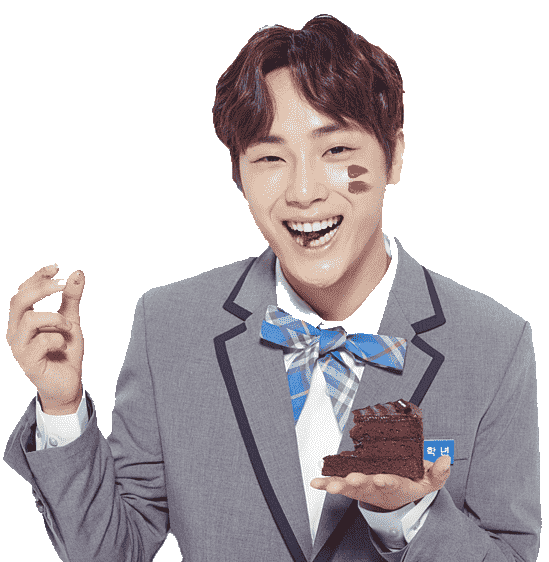
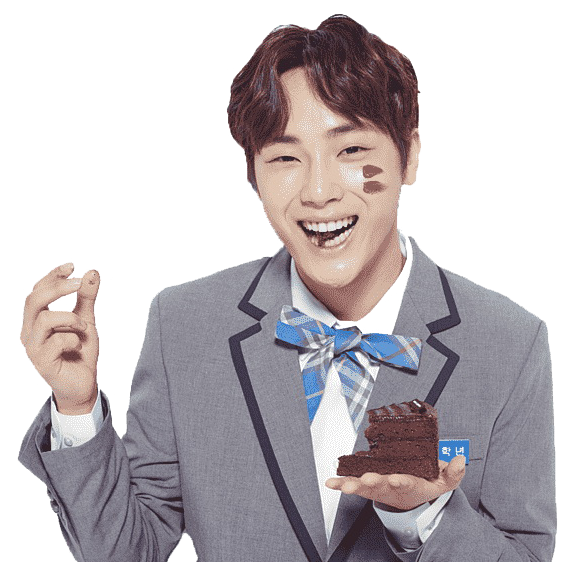
final commit

diff --git a/index.html b/index.html
@@ -13,17 +13,93 @@
 </head>
 
 <body>
-    <section class="top-banner flexible-container">
+    <section class="manu-bar">
+        <div>
+            <a class="manu-button" target="_blank" href="">Home</a>
+            <a class="manu-button" target="_blank" href="">Cakes</a>
+            <a class="manu-button" target="_blank" href="">FAQ</a>
+            <a class="manu-button" target="_blank" href="">Contact</a>
+            <a class="manu-button" target="_blank" href="">Cart</a>
+            <a class="manu-button" target="_blank" href="">Log In</a>
+            <a class="manu-button" target="_blank" href="">Register</a>
+        </div>
+    </section>
+    <section class="flexible-container">
         <div class="half-width">
-            <h1>Make The Day <span class="violet-color">Sweeter</span> with Cakes by Rasel</h1>
+            <h1>Make Your Day <span class="violet-color">Sweeter</span> with Cakes by Rasel</h1>
             <p>Wheather its your little ones birthday, wedding or any celebration at Cakes by Rasel you'll find the
-                perfect cake tailored to your needs.</p><br><br>
+                perfect cake tailored to your needs.</p>
+            <br>
+            <br>
             <a class="link-button" target="_blank" href="https://www.google.com/">Order Now</a>
         </div>
         <div class="half-width">
             <img src="images/1st.png" alt="">
         </div>
     </section>
+    <section class="section-bg flexible-container">
+        <div class="half-width">
+            <img id="second-pic" src="images/2nd.png" alt="">
+        </div>
+        <div class="half-width">
+            <h2>About Me</h2>
+            <p>I am an experienced cake maker whether commercially or home baking. Prepare cakes for
+                decorating by liaising with clients about the design, flavour and theme.
+            </p>
+            <br>
+            <br>
+            <a class="link-button" target="_blank" href="https://www.google.com/">Contact Me</a>
+        </div>
+    </section>
+    <section>
+        <div class="special-area">
+            <h2>My Special Cakes</h2>
+            <p>One of the best things about cakes is that they come in such umpteen flavours. Followings are some of my
+                specialized cakes.</p>
+        </div>
+
+        <div class="flexible-container">
+
+            <div class="special-cakes">
+                <img class="cake-pic" src="images/bf.jpg" alt="">
+                <h3>Black Forest</h3>
+                <p>
+                    Black Forest consists of several layers of chocolate sponge cake sandwiched with whipped
+                    cream and cherries.
+                </p>
+            </div>
+            <div class="special-cakes">
+                <img class="cake-pic" src="images/cc.jpg" alt="">
+                <h3>Coffee Cake</h3>
+                <p>
+                    A coffee-flavored cake is typically baked in a circular shape with two layers separated by coffee
+                    butter icing.
+                </p>
+            </div>
+            <div class="special-cakes">
+                <img class="cake-pic" src="images/rv.jpg" alt="">
+                <h3>Red Velvet Cake</h3>
+                <p>
+                    The colour combination coupled with a fantastic taste makes red velvet as a treat to both
+                    eyes and tongue.
+                </p>
+            </div>
+        </div>
+    </section>
+    <br>
+    <footer>
+        <div class="footer1 flexible-container">
+            <div id="social">
+                <p>For letest updates provide your email: <input type="text"> <input type="submit">
+                    &emsp;&emsp;&emsp;&emsp; And follow me on:&emsp;
+                    <a target="_blank" href="https://www.facebook.com/"><img src="images/fblogo.png" alt=""></a>
+            </div>
+        </div>
+        <div class="footer2">
+            <h3><span class="violet-color">CAKES</span> BY RASEL</h3>
+            <p>They are baked, especially for you. Great taste in every bite.</p>
+        </div>
+    </footer>
 </body>
 
 </html>

diff --git a/style.css b/style.css
@@ -4,8 +4,13 @@ body{
     margin: 0;
 }
 h1{
-    font-size: 50px;
-    font-weight: bolder;
+    font-size: 50px;    
+}
+h2{
+    font-size: 40px;    
+}
+p{
+    font-size: 18px;
 }
 .violet-color{
     color:violet;
@@ -16,11 +21,11 @@ h1{
     margin: auto;
 }
 .half-width img{
-    width: 100%;
+    width: 104%;
 }
 .flexible-container{
     display: flex;
-    margin-bottom: 150px;
+    justify-content: center;
 }
 .link-button{
     text-decoration: none;
@@ -29,4 +34,57 @@ h1{
     color: white;
     font-weight: 700;
     border-radius: 25px;
+    box-shadow: 10px 10px 20px pink;
 }
+.manu-bar{
+    padding: 2% 5%;
+ }
+.manu-button{
+    text-decoration: none;
+    background-image: linear-gradient(violet, pink);
+    padding: 10px 20px;
+    margin: 4px;
+    color: white;
+    font-weight: 600;
+    border-radius: 5px;
+    box-shadow: 2px 2px 10px violet;
+}
+.section-bg{
+    background-image: url(images/shapes/bluebg.jpg);
+    background-repeat: no-repeat;
+    background-size: 100%;
+}
+.special-area{
+    text-align: center;
+    padding: 20px;
+    margin-right: 200px;
+    margin-left: 200px;
+}
+.special-cakes{
+    width: 22%;
+    margin-left: 25px;
+    margin-right: 25px;
+    margin-bottom: 50px;
+    padding: 15px;
+    border-radius: 20px;
+    box-shadow: 5px 5px 20px gray;
+}
+.cake-pic{
+    width: 100%;
+    border-radius: 20px;
+}
+.footer1{    
+    margin-top: 0;
+    padding: 0;
+    background-color: gray;
+    color: white;
+    text-align: center;
+ }
+.footer2{    
+    margin-top: 0;
+    padding: 10px;
+    background-color: rgb(39, 38, 38);
+    color: white;
+    text-align: center;
+ }
+ 
